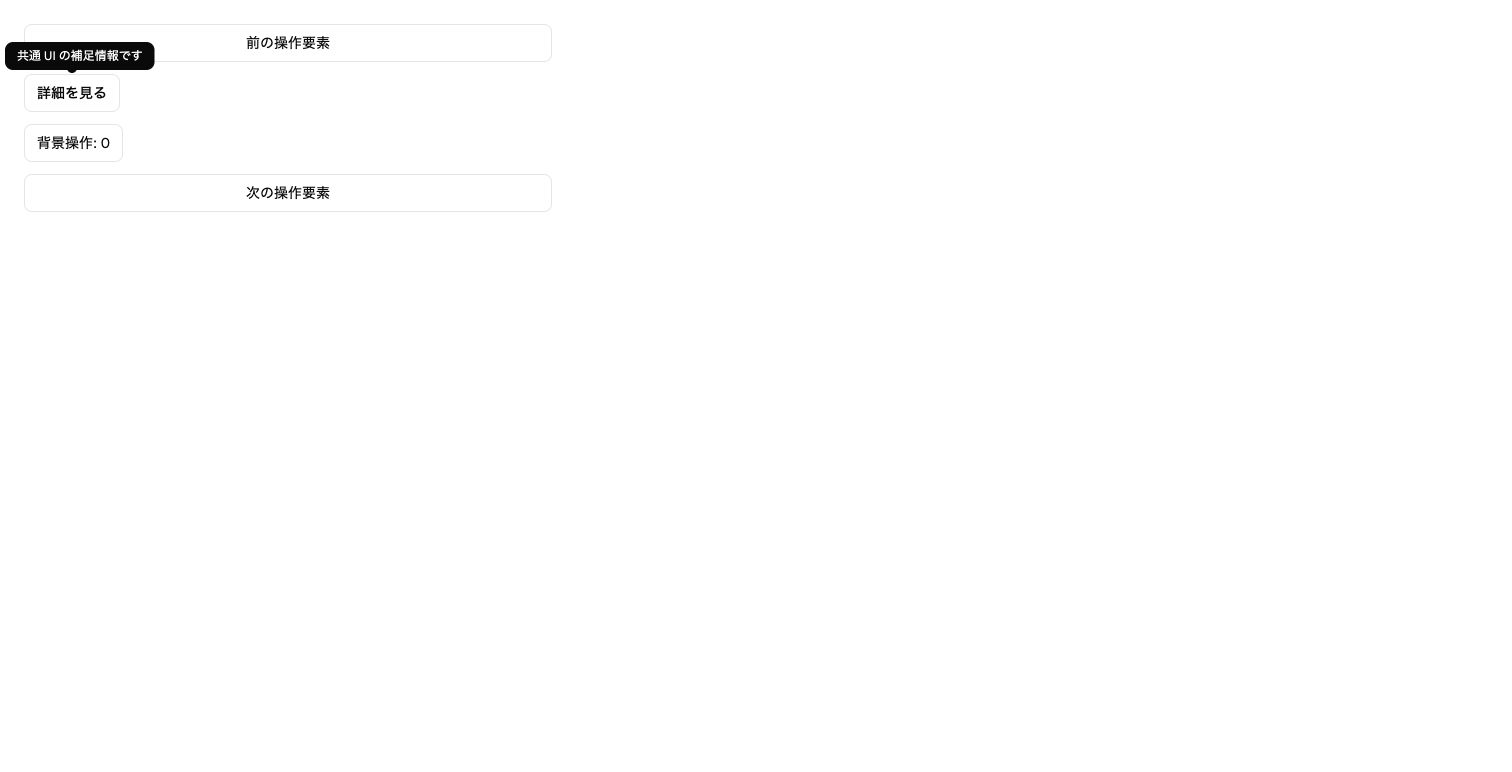
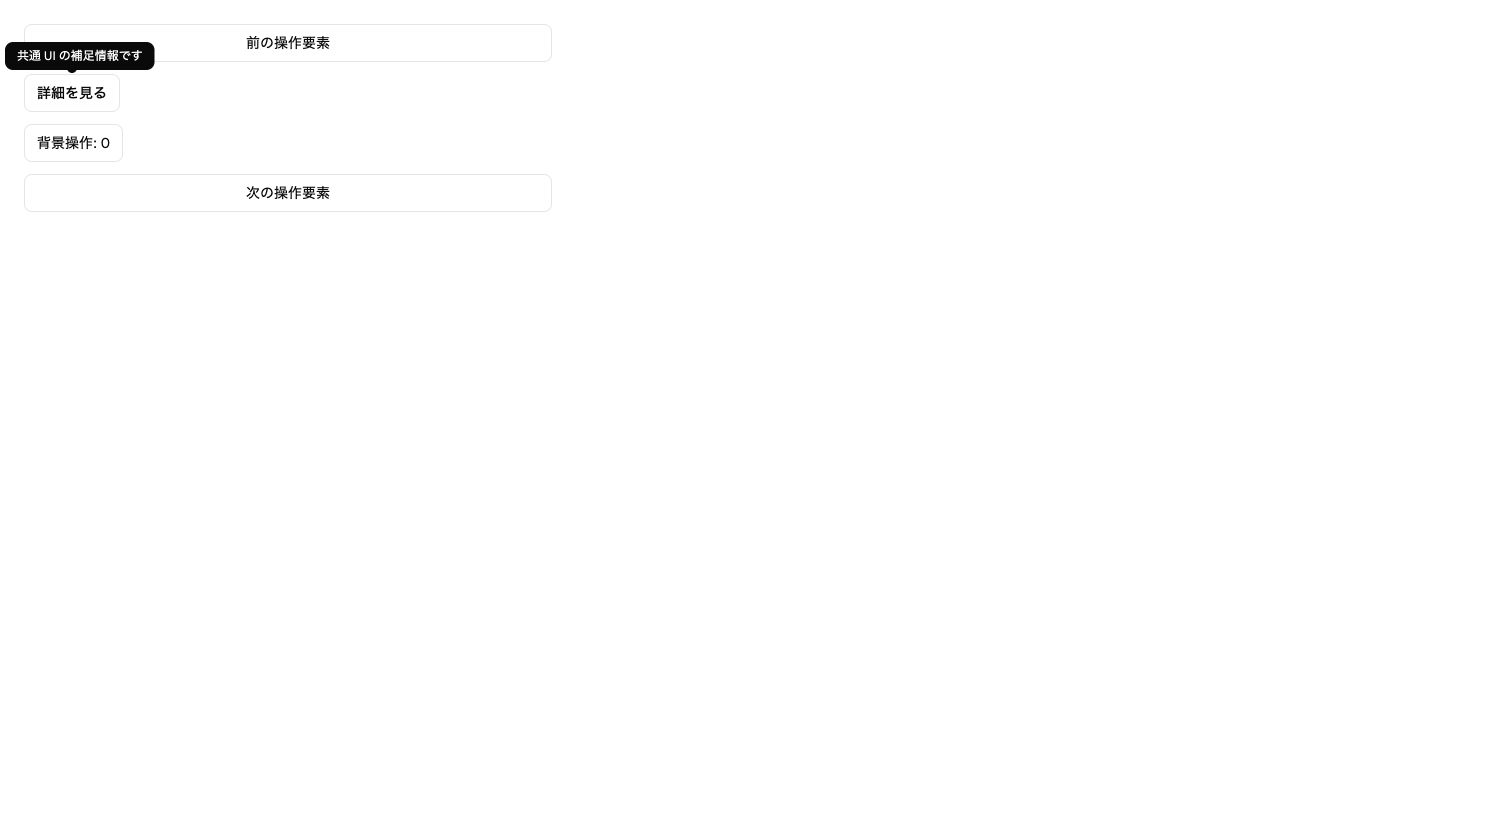
Tooltipのrole固定証跡を更新する

Changed region(s): [[0.0, 0.0311, 0.0933, 0.2176], [0.1554, 0.2176, 0.2176, 0.2798], [0.1554, 0.0311, 0.2176, 0.0622]]

diff --git a/.docs/reviews/2026-08-01-tooltip-preview.md b/.docs/reviews/2026-08-01-tooltip-preview.md
@@ -1,6 +1,6 @@
 # Tooltip preview 実ブラウザ検証
 
-- 実装 commit: `f256f6d04604520235f61acd6df2c036a67e8eb4`
+- 実装 commit: `e22d241c8b64fc94a0b087081bc1b1ca10c407cf`
 - 検証 URL: `http://127.0.0.1:4175/preview/tooltip/`、`http://127.0.0.1:4175/preview/tooltip-dark/`、`http://127.0.0.1:4175/catalog/`、`http://127.0.0.1:4175/catalog-dark/`
 - stable selector: `[data-slot="tooltip-content"]`
 - 実行環境: 固定実装 commit の build 済み成果物を `npm run preview -- --host 127.0.0.1 --port 4175` で起動し、Chrome 実ブラウザで検証した。
@@ -9,7 +9,9 @@
 
 `@base-ui/react` 1.6.0 をそのまま包んだ実装 commit `33c89b045aeae1d01c8e1dd8a7dfe0437f5fd612` では、hydration 後の Popup に `role` と `id` がなく、Trigger に `aria-describedby` がなかった。`node_modules/@base-ui/react/tooltip/popup/TooltipPopup.mjs` は `useRenderElement` へ state、ref、popup props、利用者 props を渡すだけで tooltip role を付けず、`trigger/TooltipTrigger.mjs` も内部 trigger id は付けるが `aria-describedby` を生成しないことをソースで確認した。
 
-公開 props の実ブラウザ probe では、content の `id="tooltip-preview-content"` と `role="tooltip"`、trigger の `aria-describedby="tooltip-preview-content"` がそのまま DOM へ到達し、`document.getElementById(trigger.getAttribute("aria-describedby")) === content` が成立した。これを受け、固定実装では配布 component の `TooltipContent` が `role="tooltip"` を上書き不能な位置で固定し、利用側が一意な content `id` と同値の trigger `aria-describedby` を公開 props で配線する契約を README と preview に置いた。`role` だけでは trigger と説明の関係が成立しないため、`aria-describedby` と参照先 ID の一致を対で要求する。
+公開 props の実ブラウザ probe では、content の `id="tooltip-preview-content"` と `role="tooltip"`、trigger の `aria-describedby="tooltip-preview-content"` がそのまま DOM へ到達し、`document.getElementById(trigger.getAttribute("aria-describedby")) === content` が成立した。これを受け、利用側が一意な content `id` と同値の trigger `aria-describedby` を公開 props で配線する契約を README と preview に置いた。`role` だけでは trigger と説明の関係が成立しないため、`aria-describedby` と参照先 ID の一致を対で要求する。
+
+最初の補完実装は JSX の `{...props}` より後に `role="tooltip"` を置いて通常の `role` props を固定したが、Base UI の `render` 要素が通常 props を後勝ちで上書きできる経路を残していた。review 修正では `TooltipContentProps` から `render` と `role` を除外し、Popup の spread 後に `render={undefined}`、`role="tooltip"` の順で渡した。負の型契約を実装前に追加した際は両方の `@ts-expect-error` が未使用となる TS2578 の RED を確認し、修正・library build 後は同じ契約が exit 0になった。配布 JS でも `...props` の後が `render: void 0`、`role: "tooltip"` の順であることを確認し、型と JavaScript 実行時の双方で上書き経路を閉じた。
 
 上流 Base UI が将来 ARIA tooltip pattern と ID 関係を実装した場合は、二重指定や競合を避けるためこの正規化と利用契約を再評価する。
 
@@ -41,7 +43,7 @@
 ## 画像
 
 - `.docs/reviews/tooltip-preview-light.jpg` と `.docs/reviews/tooltip-preview-dark.jpg` は、open 状態を Chrome Browser API の `tab.screenshot({ fullPage: true })` で取得した。返却された `Uint8Array` は JPEG / JFIF magic bytes `FF D8 FF E0` を持つため、その byte 列をそのまま `.jpg` として保存した。取得方法と画像形式・拡張子は一致する。
-- light は 16,607 bytes、dark は 16,663 bytesで、双方とも 1512 × 772px、baseline、8-bit、3 components の JFIF JPEG である。
+- review 修正後の fresh run では light は 17,035 bytes・1512 × 828px、dark は 16,663 bytes・1512 × 772pxだった。双方とも baseline、8-bit、3 components の JFIF JPEG である。dark は fresh run の byte 列を書き戻した結果、修正前証跡と byte 同一だった。
 
 ## 見た範囲 / 見ていない範囲
 
